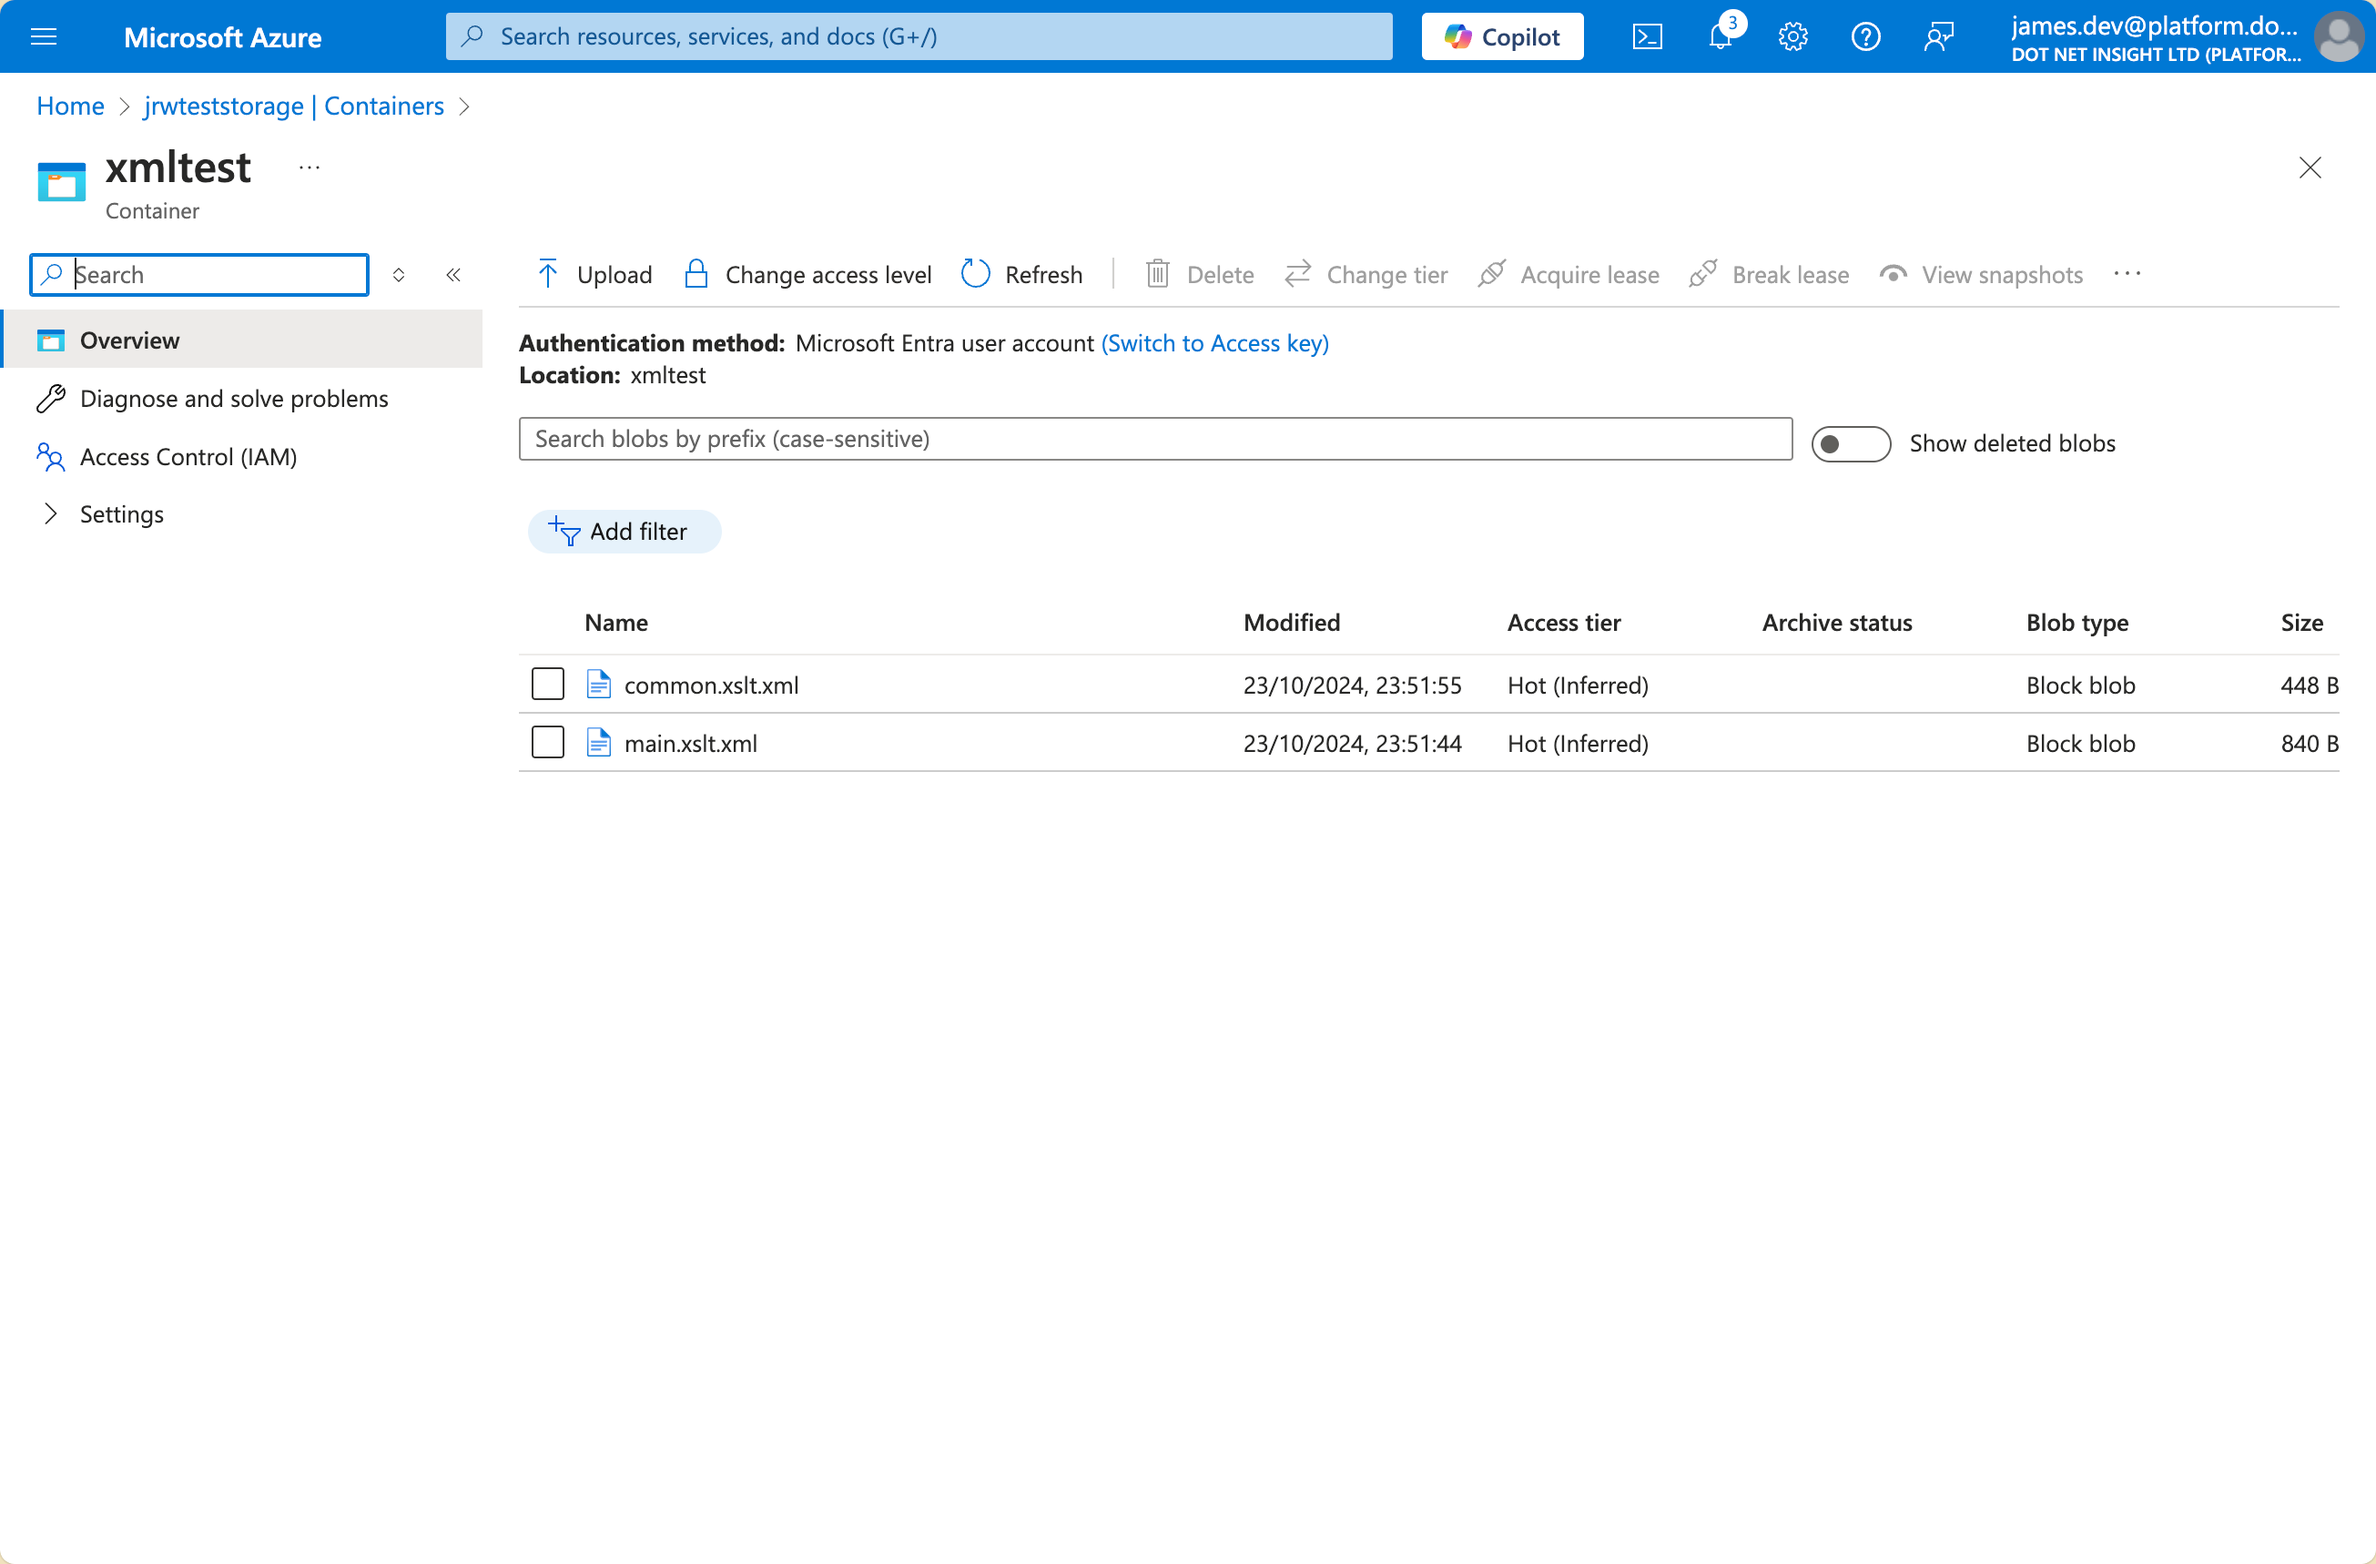
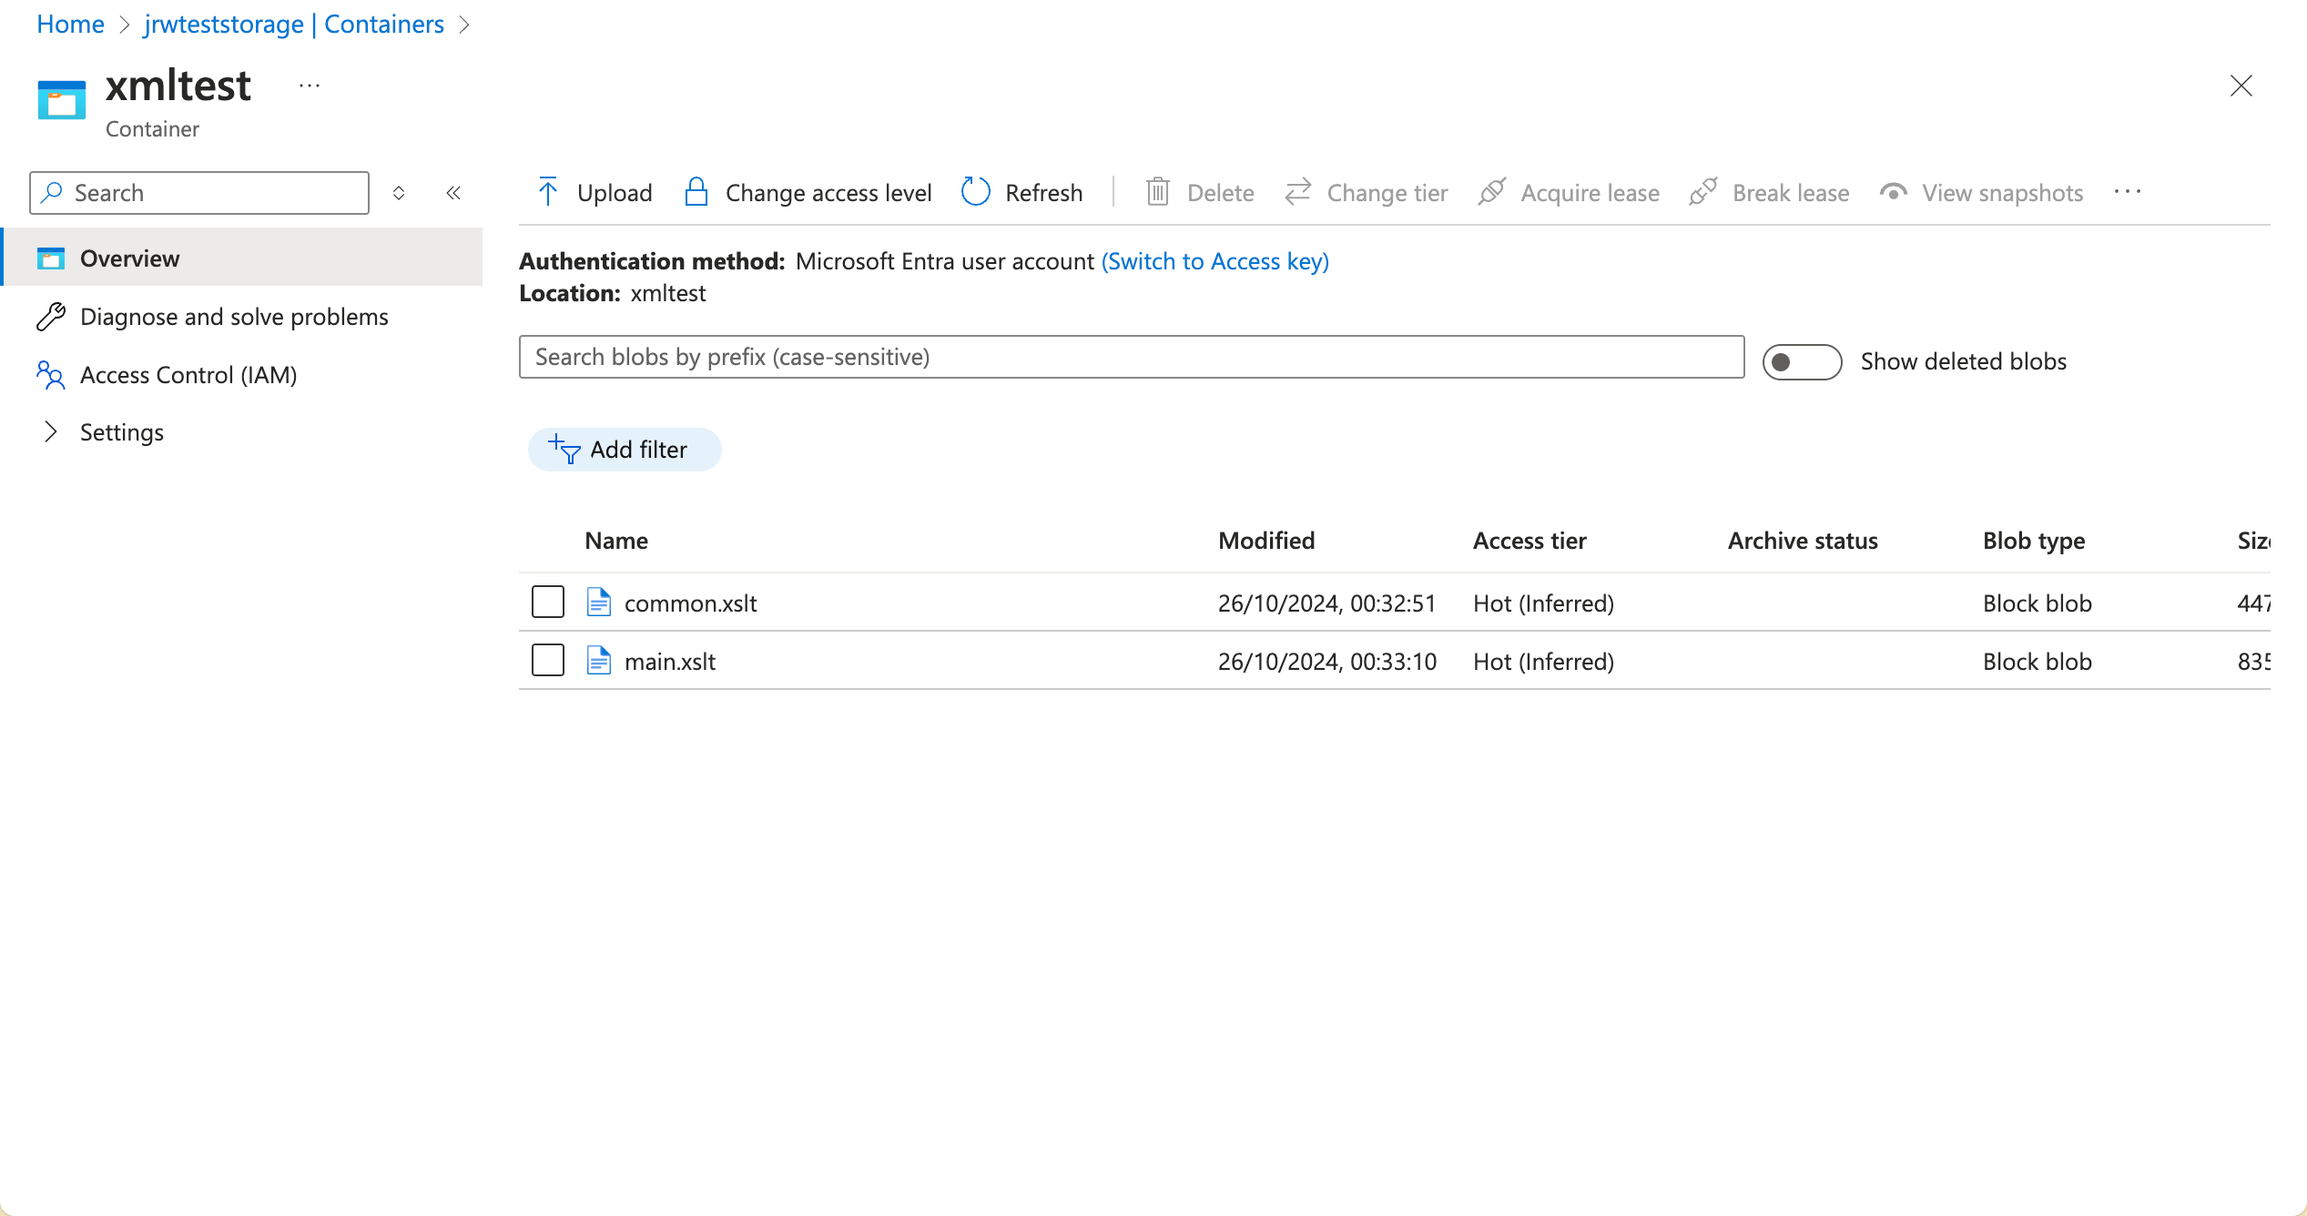
feat: added mock blob storage

diff --git a/docker/xslt-blob-storage/init_azurite.py b/docker/xslt-blob-storage/init_azurite.py
@@ -1,0 +1,94 @@
+import argparse
+import os
+from time import sleep
+
+from azure.core.exceptions import ResourceExistsError
+from azure.storage.blob import BlobServiceClient, ContainerClient
+
+
+def upload_file(container_client: ContainerClient, source: str, dest: str) -> None:
+    """
+    Upload single file to a path inside the container.
+    """
+    print(f"Uploading {source} to {dest}")
+    with open(source, "rb") as data:
+        try:
+            container_client.upload_blob(name=dest, data=data)
+        except ResourceExistsError:
+            pass
+        
+
+def upload_dir(container_client: ContainerClient, source: str, dest: str) -> None:
+    """
+    Upload a directory to a path inside the container.
+    """
+    prefix = "" if dest == "" else dest + "/"
+    prefix += os.path.basename(source) + "/"
+    for root, dirs, files in os.walk(source):
+        for name in files:
+            dir_part = os.path.relpath(root, source)
+            dir_part = "" if dir_part == "." else dir_part + "/"
+            file_path = os.path.join(root, name)
+            blob_path = prefix + dir_part + name
+            upload_file(container_client, file_path, blob_path)
+
+
+def init_containers(
+        service_client: BlobServiceClient, containers_directory: str) -> None:
+    """
+    Iterate on the containers directory and do the following:
+    1. Create the container.
+    2. Upload all the folders and files to the container.
+    """
+    for container_name in os.listdir(containers_directory):
+        container_path = os.path.join(containers_directory, container_name)
+        print("Container_path", container_path)
+        if os.path.isdir(container_path):
+            container_client = service_client.get_container_client(container_name)
+            try:
+                container_client.create_container()
+            except ResourceExistsError:
+                pass
+            for blob in os.listdir(container_path):
+                blob_path = os.path.join(container_path, blob)
+                if os.path.isdir(blob_path):
+                    upload_dir(container_client, blob_path, "")
+                else:
+                    upload_file(container_client, blob_path, blob)
+
+
+if __name__ == "__main__":
+    parser = argparse.ArgumentParser(
+        description="Initialize azurite emulator containers."
+    )
+    parser.add_argument(
+        "--directory",
+        required=True,
+        help="""
+        Directory that contains subdirectories named after the containers
+        that we should create. Each subdirectory will contain the files
+        and directories of its container.
+        """
+    )
+
+    args = parser.parse_args()
+
+    # Connect to the localhost emulator (after 5 secs to make sure it's up).
+    sleep(5)
+    blob_service_client = BlobServiceClient(
+        account_url="http://localhost:10000/devstoreaccount1",
+        credential={
+            "account_name": "devstoreaccount1",
+            "account_key": (
+                "Eby8vdM02xNOcqFlqUwJPLlmEtlCDXJ1OUzFT50uSRZ6IFsuFq2UVErCz4I6tq"
+                "/K1SZFPTOtr/KBHBeksoGMGw=="
+            )
+        }
+    )
+    
+    # Only initialize if not already initialized.
+    print("Start")
+    if next(blob_service_client.list_containers(), None):
+        print("Emulator already has containers, will skip initialization.")
+    else:
+        init_containers(blob_service_client, args.directory)

diff --git a/src/Demo/Program.cs b/src/Demo/Program.cs
@@ -7,8 +7,9 @@ using Microsoft.Extensions.Configuration;
 var configuration = new ConfigurationBuilder()
     .AddUserSecrets<Program>()
     .Build();
-
-string connectionString = configuration["AzureBlobXmlResolver:ConnectionString"] ?? throw new Exception("See README.md");
+    
+// Default to using the the local storage emulator if a connection string isn't provided
+string connectionString = configuration["AzureBlobXmlResolver:ConnectionString"] ?? "UseDevelopmentStorage=true"; 
 
 // swap comments to use the caching resolver
 // XmlResolver resolver = new AzureBlobXmlResolver(connectionString);
@@ -20,15 +21,15 @@ Environment.CurrentDirectory = new FileInfo(Assembly.GetExecutingAssembly().Loca
 
 // This is how you would use the local file system, you can do this to see the output you expect when using blobs
 Console.WriteLine("Local file system:");
-TransformFile("Example/books.xml", "Example/main.xslt.xml", XmlResolver.FileSystemResolver, xlstSettings);
+TransformFile("Example/books.xml", "Example/main.xslt", XmlResolver.FileSystemResolver, xlstSettings);
 
 // Note, the azureblob syntax tells the XSLT processor to use the AzureBlobXmlResolver to resolve URIs
 // it's only needed here - the XSLT file itself doesn't need to know about the resolver and can just use relative URIs like normal.
 // See the content of Example/main.xslt.xml to see how it just has a relative URI to the included file.
 Console.WriteLine("Azure Blob Storage:");
-TransformFile("Example/books.xml", "azureblob://xmltest/main.xslt.xml", resolver, xlstSettings);
+TransformFile("Example/books.xml", "azureblob://xmltest/main.xslt", resolver, xlstSettings);
 Console.WriteLine("Cache:");
-TransformFile("Example/books.xml", "azureblob://xmltest/main.xslt.xml", resolver, xlstSettings);
+TransformFile("Example/books.xml", "azureblob://xmltest/main.xslt", resolver, xlstSettings);
 
 // function to transform a file given a resolve and settings
 static void TransformFile(string inputFileName, string baseXsltFile, XmlResolver resolver, XsltSettings settings)

diff --git a/README.md b/README.md
@@ -2,13 +2,21 @@
 
 This is a spike to test a custom XmlResolver that can pull files from Azure Blob Storage.
 
-The demo incldues a sample parent XLST file `main.xslt.xml` that includes a child XSLT file `common.xslt.xml`. The custom XmlResolver is used to pull both files from Azure Blob Storage and transform a locally stored `books.xml` file into HTML.
+The demo incldues a sample parent XLST file `main.xslt` that includes a child XSLT file `common.xslt`. The custom XmlResolver is used to pull both files from Azure Blob Storage and transform a locally stored `books.xml` file into HTML.
 
 The files are in the Example folder in src/Demo.
 
 ## Instructions
 
-There are two set up sets before you run the example project:
+Before you start, you can either run a mock emulator for Azure Storage or use a real Azure Storage account.
+
+### Azurite Emulator
+
+Run `docker compose up --build` to start the Azure Storage emulator and automatically upload the `common.xslt.xml` and `main.xslt.xml` files to the emulator.
+
+OR
+
+### Real Azure Storage Account
 
 You need to set the dotnet user secret for the `AzureBlobXmlResolver:ConnectionString` key to the connection string of the Azure Storage account:
 
@@ -16,10 +24,14 @@ You need to set the dotnet user secret for the `AzureBlobXmlResolver:ConnectionS
 dotnet user-secrets --project src/Demo set AzureBlobStrage:ConnectionString "<blob storage connection string>"
 ```
 
-You need to upload the `common.xslt.xml` and `main.xslt.xml` files to an Azure blob storage container called `xmltest`.
+You need to upload the `common.xslt` and `main.xslt` files to an Azure blob storage container called `xmltest`.
 
 It would look like:
 
 ![FilesInBlobStorage](FilesInBlobStorage.png)
+
+### Run the Demo
+
+With blob storage ready by one the above methods, you can run the demo.
 
 From the command line, run `dotnet run --project src/Demo`.
